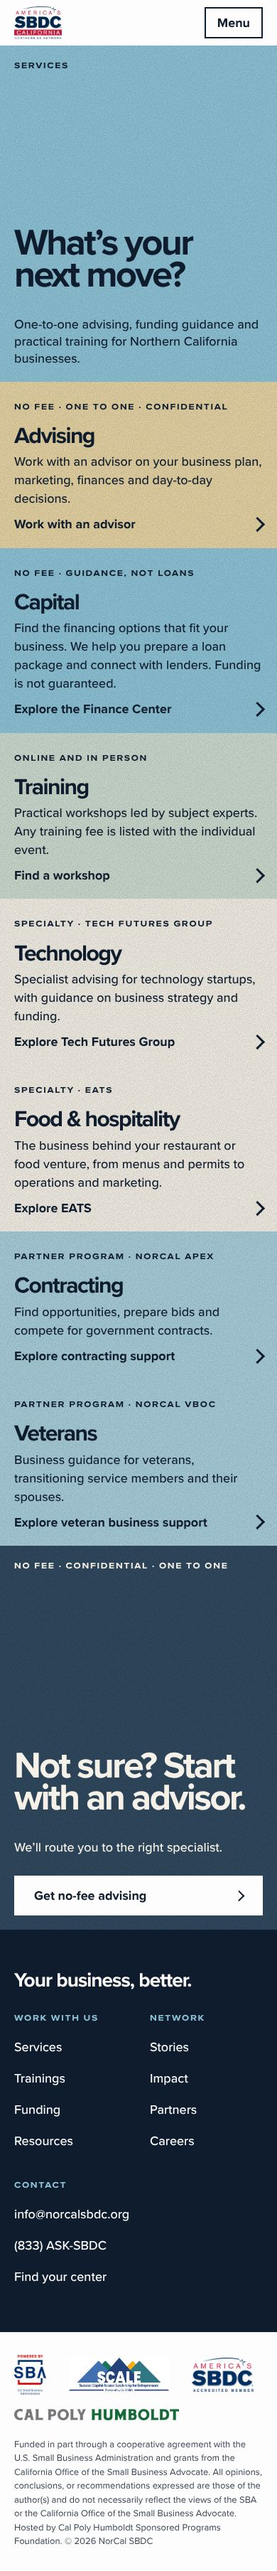
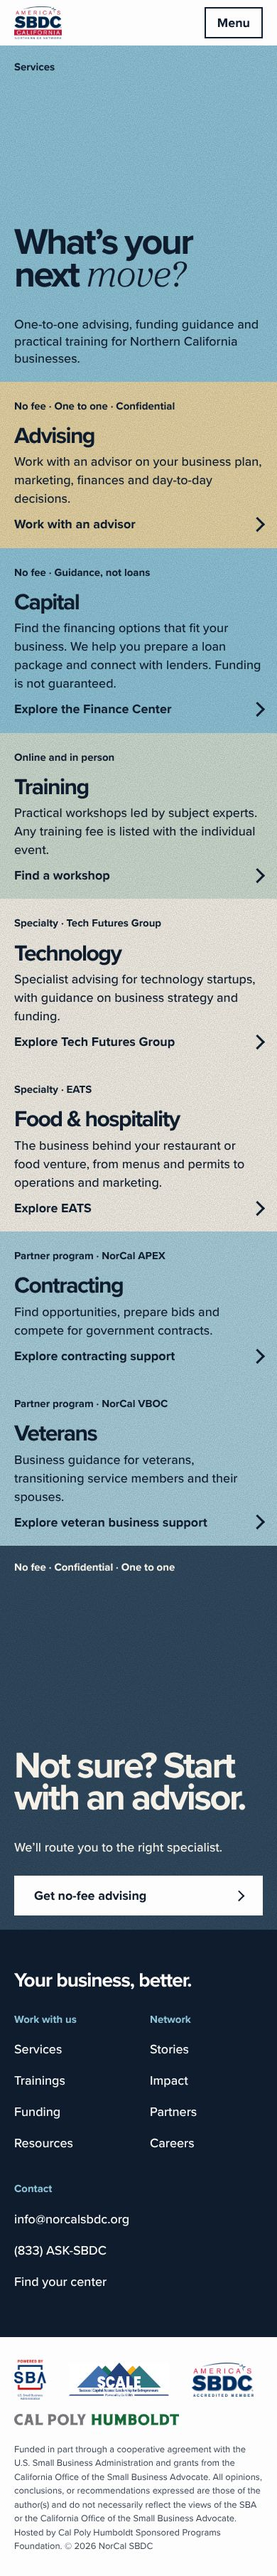
Use plain Proxima Nova labels and add occasional Sera italic words
Claude-Session: https://claude.ai/code/session_01BDtJSaFQQUEiRgwqXU1sgG

diff --git a/design-directions/line/home.html b/design-directions/line/home.html
@@ -15,7 +15,7 @@
 <div class="split" style="position:relative">
 <div class="panel tx c-navy dk"><span class="tex" aria-hidden="true"></span><svg class="map tex-map" viewBox="0 0 760 1043" aria-hidden="true" focusable="false"><path d="M327.3 831.4L334.0 829.6L341.3 835.2L348.6 847.7L354.8 850.1L369.4 851.3L376.6 858.5L374.4 861.8L383.4 867.3L445.6 847.7L445.6 903.1L454.0 906.4L459.0 915.4L459.0 915.2L396.8 915.1L387.8 921.0L384.5 918.2L369.4 919.9L366.0 913.5L359.3 910.2L353.7 895.1L349.7 876.2L338.0 866.8L336.8 858.8L325.1 854.5L324.5 853.9L329.6 841.4Z"/><path d="M677.6 707.5L677.6 668.5L694.4 653.7L707.9 634.8L703.4 621.9L753.3 666.4L748.8 675.9L748.2 688.4L760.0 709.6L757.2 727.5L747.7 731.0L749.9 736.5L744.9 744.5L735.3 736.7L735.9 727.7L727.5 726.3L719.6 729.4L706.8 738.6L685.5 723.0L677.6 720.2Z"/><path d="M528.5 707.9L542.0 703.7L544.2 706.5L557.1 698.3L569.4 698.7L590.7 708.8L606.4 707.5L630.0 700.4L640.1 700.2L652.4 690.2L655.8 683.4L667.5 680.4L669.8 669.7L677.6 668.5L677.6 707.5L664.7 710.7L657.4 709.4L645.1 714.5L628.8 717.3L623.8 714.8L617.1 720.2L610.9 720.0L606.4 725.1L593.0 731.7L590.2 740.7L562.7 752.5L548.7 765.9L533.0 765.0L528.5 749.9Z"/><path d="M464.1 375.7L469.7 375.7L469.1 382.9L475.3 388.8L466.9 403.1L468.6 414.7L468.0 432.3L476.4 435.6L477.5 441.5L488.2 450.5L499.9 466.8L506.1 469.8L511.2 481.4L520.7 487.7L515.6 493.7L508.9 496.2L507.8 503.5L494.9 501.9L494.9 504.7L484.8 503.5L483.7 512.2L479.8 515.3L480.3 522.4L474.2 534.7L469.1 539.8L458.5 541.0L456.8 544.3L444.5 546.7L437.2 543.9L434.9 548.6L434.4 546.7L390.6 547.1L393.5 530.9L396.8 517.5L395.7 505.4L399.1 499.8L377.2 500.5L376.1 495.7L378.3 478.3L377.2 472.7L385.6 467.3L382.8 459.5L378.9 459.7L369.4 447.2L365.4 438.5L369.4 429.8L406.9 429.7L415.3 425.1L415.9 418.7L422.6 409.5L431.6 409.9L433.2 401.0L439.4 394.6L441.1 385.9L452.9 385.9L461.8 381.6Z"/><path d="M677.6 707.5L677.6 720.2L685.5 723.0L664.7 732.2L656.3 744.5L648.5 752.9L635.6 775.4L617.6 802.2L616.0 807.9L608.1 809.8L604.2 815.7L608.1 818.5L604.7 825.6L590.2 838.7L586.8 844.6L544.2 794.9L542.0 792.8L533.0 765.0L548.7 765.9L562.7 752.5L590.2 740.7L593.0 731.7L606.4 725.1L610.9 720.0L617.1 720.2L623.8 714.8L628.8 717.3L645.1 714.5L657.4 709.4L664.7 710.7Z"/><path d="M261.2 530.9L355.3 530.6L355.3 524.7L375.0 524.8L375.0 530.9L393.5 530.9L390.6 547.1L384.5 559.9L387.8 568.3L385.0 572.1L394.0 593.8L400.2 594.1L404.1 601.9L404.7 610.8L401.9 623.7L323.4 623.8L312.7 616.0L311.6 604.4L299.3 597.4L298.2 583.9L302.1 573.3L295.9 566.2L287.0 567.2L270.1 560.3L258.4 550.9L255.6 545.5Z"/><path d="M334.6 798.5L347.5 799.8L354.2 804.3L367.1 798.0L378.9 797.0L387.8 801.1L397.9 797.3L402.4 804.3L409.1 806.9L417.6 805.1L426.0 798.2L429.3 791.2L442.2 791.6L441.1 803.4L445.6 807.2L441.7 813.8L445.6 824.2L442.2 838.7L448.9 840.9L445.6 847.7L383.4 867.3L374.4 861.8L376.6 858.5L369.4 851.3L354.8 850.1L348.6 847.7L341.3 835.2L334.0 829.6L327.3 831.4L317.2 829.8L309.4 818.0L313.9 819.6L318.9 815.0L318.9 808.1L329.6 808.4Z"/><path d="M30.8 2.3L91.9 2.8L139.6 1.7L132.3 21.2L126.1 25.5L119.9 24.7L118.8 30.0L110.4 37.3L114.9 43.1L114.3 53.3L117.1 57.3L113.2 73.8L108.2 83.9L113.8 84.4L112.1 91.4L118.3 95.2L124.4 113.9L117.1 127.0L99.8 127.1L99.8 110.3L53.8 110.1L51.6 93.4L43.2 71.2L38.7 54.5L33.6 55.2L24.1 45.8L29.7 33.0L32.5 13.9Z"/><path d="M688.3 594.8L688.8 608.5L703.4 621.9L707.9 634.8L694.4 653.7L677.6 668.5L669.8 669.7L667.5 680.4L655.8 683.4L652.4 690.2L640.1 700.2L630.0 700.4L606.4 707.5L590.7 708.8L569.4 698.7L557.1 698.3L544.2 706.5L542.0 703.7L528.5 707.9L514.0 665.7L510.6 666.7L516.8 651.8L516.8 645.7L522.9 639.6L526.3 625.6L542.0 621.4L542.0 616.0L554.9 618.1L562.2 608.4L575.0 607.7L588.5 619.7L599.1 625.7L608.7 622.4L615.4 615.5L621.0 602.6L651.3 603.7L660.2 602.1L666.4 594.8Z"/><path d="M229.8 447.0L369.4 447.2L378.9 459.7L382.8 459.5L385.6 467.3L377.2 472.7L378.3 478.3L376.1 495.7L377.2 500.5L399.1 499.8L395.7 505.4L396.8 517.5L393.5 530.9L375.0 530.9L375.0 524.8L355.3 524.7L355.3 530.6L261.2 530.9L262.3 517.4L261.7 491.0L238.2 491.1L237.1 465.1L233.7 457.3L229.8 457.3Z"/><path d="M53.8 110.1L99.8 110.3L99.8 127.1L117.1 127.0L141.8 126.8L146.3 130.1L151.9 158.2L156.4 167.8L153.0 173.8L149.1 190.2L153.6 191.7L156.4 200.2L150.2 210.8L150.2 215.7L142.9 221.1L132.3 214.5L123.3 218.8L130.6 233.1L135.6 257.9L135.1 405.9L60.5 406.0L51.6 400.3L51.6 392.8L47.1 385.4L34.7 379.8L7.3 353.6L9.5 342.7L7.3 330.5L0.0 317.6L5.0 300.6L12.9 281.7L36.4 235.7L42.6 219.2L46.5 198.5L39.8 192.1L39.2 175.2L41.5 174.9L47.6 157.7L52.7 128.3Z"/><path d="M238.2 491.1L261.7 491.0L262.3 517.4L261.2 530.9L255.6 545.5L258.4 550.9L270.1 560.3L287.0 567.2L295.9 566.2L302.1 573.3L298.2 583.9L299.3 597.4L311.6 604.4L312.7 616.0L323.4 623.8L313.3 623.5L310.5 627.8L315.0 635.8L318.3 645.4L314.4 648.1L303.8 668.1L278.6 675.6L275.2 667.8L268.5 666.9L259.5 648.0L248.3 638.8L236.5 632.5L237.1 629.6L228.1 628.7L224.7 622.1L222.5 609.1L215.8 609.1L211.3 604.2L210.2 595.3L205.7 594.0L207.9 573.3L213.0 573.3L220.8 560.8L217.5 552.3L217.5 543.4L214.1 540.5L208.5 526.0L210.2 506.6L216.3 503.6L230.4 504.0L237.6 501.6Z"/><path d="M480.9 166.9L688.8 166.9L689.4 391.8L688.3 462.3L686.0 465.1L665.8 465.4L672.0 447.9L672.0 418.5L663.0 412.6L657.4 403.6L655.8 388.8L650.1 384.5L635.6 382.9L624.9 376.5L617.6 364.7L613.2 364.7L609.2 356.0L598.6 352.9L598.6 348.6L591.3 348.6L586.8 344.0L569.4 342.5L564.4 350.1L552.6 357.4L552.6 365.9L543.7 367.5L540.9 361.6L531.9 361.6L522.9 354.5L522.9 316.1L481.4 316.3L482.6 223.2L480.9 223.2Z"/><path d="M219.7 750.8L225.3 746.6L234.3 745.7L260.6 768.8L275.2 774.1L287.5 772.8L299.9 788.5L301.0 796.1L298.2 804.1L306.6 813.0L299.9 817.3L297.6 824.9L308.3 834.7L304.3 837.1L298.2 832.1L302.1 844.4L293.7 847.2L288.6 840.6L274.1 830.0L266.8 832.1L253.9 820.4L248.3 811.2L238.8 805.5L229.8 804.1L218.6 809.8L226.4 787.8L228.1 779.4L221.4 763.5L225.3 760.0Z"/><path d="M60.5 406.0L135.1 405.9L135.1 410.9L230.4 410.7L232.6 423.1L228.1 425.0L226.4 437.7L229.8 447.0L229.8 457.3L233.7 457.3L237.1 465.1L238.2 491.1L237.6 501.6L230.4 504.0L216.3 503.6L210.2 506.6L208.5 526.0L214.1 540.5L217.5 543.4L217.5 552.3L220.8 560.8L213.0 573.3L207.9 573.3L205.7 594.0L210.2 595.3L211.3 604.2L215.8 609.1L222.5 609.1L224.7 622.1L228.1 628.7L237.1 629.6L236.5 632.5L248.3 638.8L207.4 638.2L199.0 640.8L199.0 647.1L162.5 647.6L162.5 653.5L142.4 653.2L136.8 655.3L118.3 637.9L104.8 617.7L112.7 604.2L112.1 596.9L95.3 553.7L91.4 535.4L93.0 518.2L100.3 495.3L97.5 486.3L97.5 475.0L89.7 459.0L87.4 440.3L78.5 434.0L75.1 424.5Z"/><path d="M462.9 2.6L551.5 3.1L688.8 3.0L688.8 3.1L688.8 166.9L480.9 166.9L462.9 167.1L461.3 12.2Z"/><path d="M278.6 675.6L303.8 668.1L314.4 648.1L318.3 645.4L315.0 635.8L321.7 641.7L331.2 640.8L341.3 669.2L350.3 678.2L356.5 692.6L360.4 706.8L356.5 723.9L362.6 732.9L366.5 746.8L344.1 746.8L346.9 755.6L342.4 757.6L346.4 767.5L343.0 774.2L345.8 779.3L312.7 779.1L318.3 778.7L321.7 771.4L318.9 760.7L313.3 753.7L315.0 749.0L304.9 736.4L306.6 733.9L298.7 724.9L301.0 719.2L293.7 715.7L291.4 705.5L279.7 697.3L275.8 689.6Z"/><path d="M529.1 529.3L533.0 525.0L551.5 521.5L551.5 521.5L551.5 521.5L554.9 520.7L554.9 520.7L554.9 520.7L563.8 520.0L572.8 515.1L582.9 503.6L596.9 502.6L601.9 504.5L605.3 514.8L610.4 518.2L688.3 518.4L687.7 544.5L587.9 544.8L575.0 550.2L563.3 561.3L554.9 566.7L553.2 571.9L547.0 574.0L535.8 586.1L534.1 592.9L526.3 605.6L516.2 606.1L511.2 600.7L503.3 605.8L488.7 601.4L488.7 561.8L491.0 553.3L498.3 551.4L500.5 544.5L512.8 531.6L519.6 528.7Z"/><path d="M468.0 609.2L475.3 601.9L484.8 597.8L488.7 601.4L503.3 605.8L511.2 600.7L516.2 606.1L526.3 605.6L534.1 592.9L535.8 586.1L547.0 574.0L553.2 571.9L554.9 566.7L563.3 561.3L575.0 550.2L587.9 544.8L687.7 544.5L688.3 575.0L688.3 585.6L688.3 594.8L666.4 594.8L660.2 602.1L651.3 603.7L621.0 602.6L615.4 615.5L608.7 622.4L599.1 625.7L588.5 619.7L575.0 607.7L562.2 608.4L554.9 618.1L542.0 616.0L542.0 621.4L526.3 625.6L522.9 639.6L516.8 645.7L516.8 651.8L510.6 666.7L456.8 662.0L459.0 658.6L459.0 623.5L468.0 623.3Z"/><path d="M455.1 316.3L481.4 316.3L522.9 316.1L522.9 354.5L531.9 361.6L540.9 361.6L543.7 367.5L552.6 365.9L552.6 357.4L564.4 350.1L569.4 342.5L586.8 344.0L591.3 348.6L598.6 348.6L598.6 352.9L609.2 356.0L613.2 364.7L617.6 364.7L624.9 376.5L635.6 382.9L650.1 384.5L655.8 388.8L657.4 403.6L663.0 412.6L672.0 418.5L672.0 447.9L665.8 465.4L589.1 465.6L582.3 471.3L571.1 463.0L565.5 464.9L561.6 458.1L552.6 451.5L543.1 458.7L540.3 472.7L531.3 479.2L520.7 487.7L511.2 481.4L506.1 469.8L499.9 466.8L488.2 450.5L477.5 441.5L476.4 435.6L468.0 432.3L468.6 414.7L466.9 403.1L475.3 388.8L469.1 382.9L469.7 375.7L464.1 375.7L464.1 366.8L469.1 367.7L475.3 363.3L478.1 350.5L473.6 346.0L479.2 343.7L473.0 337.4L459.0 335.2Z"/><path d="M440.0 747.3L441.7 743.5L451.2 737.8L449.5 723.9L454.0 721.4L453.4 715.7L447.8 714.1L446.1 706.7L450.6 705.6L452.9 689.1L446.1 688.6L444.5 680.8L440.0 680.4L433.8 671.9L438.3 661.9L456.8 662.0L510.6 666.7L514.0 665.7L528.5 707.9L528.5 749.9L522.4 750.1L505.5 758.9L497.7 761.2L490.4 759.6L478.6 764.5L468.6 763.8L465.8 759.1L457.3 759.3L450.1 771.4L448.9 780.0L441.1 786.4L442.2 791.6L429.3 791.2L426.0 798.2L417.6 805.1L409.1 806.9L402.4 804.3L397.9 797.3L408.0 798.4L416.4 793.0L421.5 793.3L425.4 778.4L436.6 771.1Z"/><path d="M315.5 869.6L298.2 869.6L295.9 855.0L303.8 850.1L312.7 848.7L316.1 852.9L320.0 868.2Z"/><path d="M442.2 791.6L441.1 786.4L448.9 780.0L450.1 771.4L457.3 759.3L465.8 759.1L468.6 763.8L478.6 764.5L490.4 759.6L497.7 761.2L505.5 758.9L522.4 750.1L528.5 749.9L533.0 765.0L542.0 792.8L544.2 794.9L544.8 863.7L533.0 859.2L528.0 863.0L523.5 861.1L510.0 867.7L494.9 878.6L459.0 915.4L454.0 906.4L445.6 903.1L445.6 847.7L448.9 840.9L442.2 838.7L445.6 824.2L441.7 813.8L445.6 807.2L441.1 803.4Z"/><path d="M298.2 869.6L315.5 869.6L321.2 888.3L320.0 893.0L335.2 897.0L350.3 910.9L354.8 910.0L359.3 918.5L350.9 921.2L346.9 925.5L344.7 939.9L349.2 946.9L346.4 948.4L352.5 955.0L352.5 969.3L338.5 969.3L338.5 974.3L326.8 975.0L330.7 991.1L324.0 989.1L322.8 983.7L313.3 973.3L311.1 962.5L313.9 940.1L307.1 924.6L306.0 915.6L299.3 913.2L295.9 907.4L295.4 896.3L299.3 882.6Z"/><path d="M359.3 918.5L369.4 919.9L384.5 918.2L387.8 921.0L396.8 915.1L459.0 915.2L459.0 927.2L461.3 932.8L468.6 935.6L466.3 940.3L469.1 950.0L460.7 955.5L461.3 962.3L467.4 970.1L471.4 982.8L477.0 975.5L481.4 979.2L488.7 975.7L497.1 985.6L494.3 994.6L499.9 999.0L494.3 1007.6L494.3 1016.1L498.8 1020.7L467.4 1020.7L461.8 1015.1L456.2 1016.1L445.0 1033.5L441.7 1033.2L441.7 1029.2L431.6 1026.4L414.2 1002.8L397.9 991.7L393.5 991.5L377.8 983.7L371.6 974.3L362.6 967.7L352.5 955.0L346.4 948.4L349.2 946.9L344.7 939.9L346.9 925.5L350.9 921.2Z"/><path d="M352.5 955.0L362.6 967.7L371.6 974.3L377.8 983.7L393.5 991.5L397.9 991.7L414.2 1002.8L431.6 1026.4L441.7 1029.2L441.7 1033.2L434.4 1030.6L432.1 1034.2L423.2 1029.0L409.7 1035.9L405.8 1042.9L397.9 1026.6L391.2 1019.1L385.6 1017.2L380.6 1022.1L359.8 1021.7L344.1 1009.9L330.7 991.1L326.8 975.0L338.5 974.3L338.5 969.3L352.5 969.3Z"/><path d="M298.7 167.2L462.9 167.1L480.9 166.9L480.9 223.2L482.6 223.2L481.4 316.3L455.1 316.3L431.6 318.3L425.4 314.7L418.1 318.0L399.6 316.8L385.6 322.3L375.0 320.1L362.1 322.9L362.1 322.9L362.1 322.9L355.3 325.8L322.3 331.2L304.3 330.3L294.8 327.4L274.1 339.9L258.9 332.6L242.7 336.9L239.9 335.9L233.2 344.2L230.4 343.2L230.4 343.2L230.4 343.2L222.5 343.2L222.5 343.2L222.5 343.2L210.2 348.2L209.6 338.5L216.9 331.9L221.4 321.6L236.0 315.9L244.9 303.9L251.7 302.7L256.7 294.0L267.3 290.7L265.7 279.4L258.9 267.5L266.2 259.8L264.0 256.3L273.5 247.5L272.4 239.1L281.9 226.3L282.5 209.8L294.2 199.9L296.5 186.5L304.3 184.4L306.6 171.9Z"/><path d="M531.3 479.2L540.3 472.7L543.1 458.7L552.6 451.5L561.6 458.1L565.5 464.9L571.1 463.0L582.3 471.3L589.1 465.6L665.8 465.4L686.0 465.1L688.3 462.3L688.3 518.4L610.4 518.2L605.3 514.8L601.9 504.5L596.9 502.6L582.9 503.6L572.8 515.1L563.8 520.0L554.9 520.7L554.9 520.7L554.9 520.7L551.5 521.5L551.5 521.5L551.5 521.5L533.0 525.0L529.1 529.3L527.4 504.5L523.5 499.8L528.5 495.5Z"/><path d="M139.6 1.7L184.4 1.2L197.3 0.0L213.0 1.4L331.2 0.3L462.9 2.6L461.3 12.2L462.9 167.1L298.7 167.2L295.9 162.7L296.5 148.0L300.4 138.6L290.3 130.9L284.7 136.7L275.2 139.8L272.9 145.2L263.4 151.1L251.7 162.0L237.1 163.1L227.6 173.5L225.3 186.5L232.6 190.9L236.0 198.9L230.4 205.6L224.7 201.6L215.2 203.2L212.4 196.1L200.6 188.6L182.2 188.4L173.7 175.6L156.4 167.8L151.9 158.2L146.3 130.1L141.8 126.8L117.1 127.0L124.4 113.9L118.3 95.2L112.1 91.4L113.8 84.4L108.2 83.9L113.2 73.8L117.1 57.3L114.3 53.3L114.9 43.1L110.4 37.3L118.8 30.0L119.9 24.7L126.1 25.5L132.3 21.2Z"/><path d="M312.7 779.1L345.8 779.3L343.0 774.2L346.4 767.5L342.4 757.6L346.9 755.6L344.1 746.8L366.5 746.8L362.6 732.9L356.5 723.9L360.4 706.8L367.7 706.0L374.4 711.9L385.6 702.8L398.5 701.8L409.7 704.9L417.0 702.0L424.3 704.1L424.3 747.0L440.0 747.3L436.6 771.1L425.4 778.4L421.5 793.3L416.4 793.0L408.0 798.4L397.9 797.3L387.8 801.1L378.9 797.0L367.1 798.0L354.2 804.3L347.5 799.8L334.6 798.5L329.6 789.3L314.4 781.9Z"/><path d="M136.8 655.3L142.4 653.2L162.5 653.5L162.5 647.6L199.0 647.1L199.0 640.8L207.4 638.2L248.3 638.8L259.5 648.0L268.5 666.9L275.2 667.8L278.6 675.6L275.8 689.6L279.7 697.3L291.4 705.5L293.7 715.7L301.0 719.2L298.7 724.9L306.6 733.9L304.9 736.4L315.0 749.0L313.3 753.7L318.9 760.7L321.7 771.4L318.3 778.7L312.7 779.1L314.4 781.9L307.7 786.9L299.9 788.5L287.5 772.8L275.2 774.1L260.6 768.8L234.3 745.7L225.3 746.6L219.7 750.8L210.2 749.6L209.6 737.9L200.1 719.5L188.9 710.7L181.0 707.4L168.7 696.2L148.0 665.7Z"/><path d="M390.6 547.1L434.4 546.7L434.9 548.6L433.2 555.6L436.6 562.2L436.0 571.6L441.1 590.3L437.2 596.7L442.8 624.9L447.8 614.1L456.2 610.1L468.0 609.2L468.0 623.3L459.0 623.5L459.0 658.6L456.8 662.0L438.3 661.9L440.0 656.3L425.4 656.3L419.8 648.1L419.8 638.6L415.3 634.4L410.3 637.4L405.2 633.4L406.9 625.6L401.9 623.7L404.7 610.8L404.1 601.9L400.2 594.1L394.0 593.8L385.0 572.1L387.8 568.3L384.5 559.9Z"/><path d="M222.5 343.2L222.5 343.2L222.5 343.2L230.4 343.2L230.4 343.2L230.4 343.2L233.2 344.2L239.9 335.9L242.7 336.9L258.9 332.6L274.1 339.9L294.8 327.4L304.3 330.3L322.3 331.2L355.3 325.8L362.1 322.9L362.1 322.9L362.1 322.9L375.0 320.1L385.6 322.3L399.6 316.8L418.1 318.0L425.4 314.7L431.6 318.3L455.1 316.3L459.0 335.2L473.0 337.4L479.2 343.7L473.6 346.0L478.1 350.5L475.3 363.3L469.1 367.7L464.1 366.8L464.1 375.7L461.8 381.6L452.9 385.9L441.1 385.9L439.4 394.6L433.2 401.0L431.6 409.9L422.6 409.5L415.9 418.7L415.3 425.1L406.9 429.7L369.4 429.8L365.4 438.5L369.4 447.2L229.8 447.0L226.4 437.7L228.1 425.0L232.6 423.1L230.4 410.7L227.6 406.6L226.4 386.1L221.9 376.9L224.7 368.5L223.6 357.4L212.4 352.0L210.2 348.2Z"/><path d="M156.4 167.8L173.7 175.6L182.2 188.4L200.6 188.6L212.4 196.1L215.2 203.2L224.7 201.6L230.4 205.6L236.0 198.9L232.6 190.9L225.3 186.5L227.6 173.5L237.1 163.1L251.7 162.0L263.4 151.1L272.9 145.2L275.2 139.8L284.7 136.7L290.3 130.9L300.4 138.6L296.5 148.0L295.9 162.7L298.7 167.2L306.6 171.9L304.3 184.4L296.5 186.5L294.2 199.9L282.5 209.8L281.9 226.3L272.4 239.1L273.5 247.5L264.0 256.3L266.2 259.8L258.9 267.5L265.7 279.4L267.3 290.7L256.7 294.0L251.7 302.7L244.9 303.9L236.0 315.9L221.4 321.6L216.9 331.9L209.6 338.5L210.2 348.2L212.4 352.0L223.6 357.4L224.7 368.5L221.9 376.9L226.4 386.1L227.6 406.6L230.4 410.7L135.1 410.9L135.1 405.9L135.6 257.9L130.6 233.1L123.3 218.8L132.3 214.5L142.9 221.1L150.2 215.7L150.2 210.8L156.4 200.2L153.6 191.7L149.1 190.2L153.0 173.8Z"/><path d="M323.4 623.8L401.9 623.7L406.9 625.6L405.2 633.4L410.3 637.4L415.3 634.4L419.8 638.6L419.8 648.1L425.4 656.3L440.0 656.3L438.3 661.9L433.8 671.9L440.0 680.4L444.5 680.8L446.1 688.6L452.9 689.1L450.6 705.6L446.1 706.7L447.8 714.1L453.4 715.7L454.0 721.4L449.5 723.9L451.2 737.8L441.7 743.5L440.0 747.3L424.3 747.0L424.3 704.1L417.0 702.0L409.7 704.9L398.5 701.8L385.6 702.8L374.4 711.9L367.7 706.0L360.4 706.8L356.5 692.6L350.3 678.2L341.3 669.2L331.2 640.8L321.7 641.7L315.0 635.8L310.5 627.8L313.3 623.5Z"/><path d="M434.9 548.6L437.2 543.9L444.5 546.7L456.8 544.3L458.5 541.0L469.1 539.8L474.2 534.7L480.3 522.4L479.8 515.3L483.7 512.2L484.8 503.5L494.9 504.7L494.9 501.9L507.8 503.5L508.9 496.2L515.6 493.7L520.7 487.7L531.3 479.2L528.5 495.5L523.5 499.8L527.4 504.5L529.1 529.3L519.6 528.7L512.8 531.6L500.5 544.5L498.3 551.4L491.0 553.3L488.7 561.8L488.7 601.4L484.8 597.8L475.3 601.9L468.0 609.2L456.2 610.1L447.8 614.1L442.8 624.9L437.2 596.7L441.1 590.3L436.0 571.6L436.6 562.2L433.2 555.6Z"/></svg>
 <a class="brand" href="home.html"><img src="../shared/photos/logo-white.png" alt="America’s SBDC Northern California, home" width="82" height="56"></a>
-<div><p class="label">NorCal SBDC · 36 counties · No fee</p><h1 class="mega" style="margin-top:20px">Your business, better.</h1><p class="lead">No-fee advising, capital expertise and local connections for the business you’re building.</p>
+<div><p class="label">NorCal SBDC · 36 counties · No fee</p><h1 class="mega" style="margin-top:20px">Your business, <em>better.</em></h1><p class="lead">No-fee advising, capital expertise and local connections for the business you’re building.</p>
 <div class="panel__foot"><a class="btn" href="#">Get no-fee advising <span class="arr" aria-hidden="true"></span></a><a class="link" href="#">Sign in to MySBDC</a></div></div>
 </div>
 <div class="flow">
@@ -49,7 +49,7 @@
 <div><p class="label">Capital</p><h3>Loan readiness: what lenders actually look for</h3></div>
 <p class="row__m">10:00–11:30 AM<br>Online · 90 min · Free</p>
 <a class="reg" href="#">Register<span class="vh"> for Loan readiness: what lenders actually look for</span><span class="arr" aria-hidden="true"></span></a></li></ul><a class="link" href="trainings.html" style="margin-top:16px">See all trainings</a></section>
-<div class="endcap c-cream"><p>Good things start here.</p><a class="btn btn--ink" href="#">Get no-fee advising <span class="arr" aria-hidden="true"></span></a></div>
+<div class="endcap c-cream"><p>Good things start <em>here.</em></p><a class="btn btn--ink" href="#">Get no-fee advising <span class="arr" aria-hidden="true"></span></a></div>
 </main></div>
 </div>
 <footer>

diff --git a/design-directions/line/services.html b/design-directions/line/services.html
@@ -15,7 +15,7 @@
 <div class="split" style="position:relative">
 <div class="panel tx c-pool"><span class="tex" aria-hidden="true"></span>
 <a class="brand" href="home.html"><img src="../shared/photos/logo.png" alt="America’s SBDC Northern California, home" width="82" height="56"></a>
-<div><p class="label">Services</p><h1 class="mega" style="margin-top:20px">What’s your next move?</h1><p class="lead">One-to-one advising, funding guidance and practical training for Northern California businesses.</p>
+<div><p class="label">Services</p><h1 class="mega" style="margin-top:20px">What’s your next <em>move?</em></h1><p class="lead">One-to-one advising, funding guidance and practical training for Northern California businesses.</p>
 <div class="panel__foot"><a class="btn btn--ink" href="#">Work with an advisor <span class="arr" aria-hidden="true"></span></a></div></div>
 </div>
 <div class="flow">
@@ -30,7 +30,7 @@
 </header>
 <main id="main">
 <section class="sec" aria-label="All services"><ul class="list list--sm"><li><a href="#"><span><span class="label">No fee · One to one · Confidential</span><span class="list__t">Advising</span></span><p>Work with an advisor on your business plan, marketing, finances and day-to-day decisions.</p><span class="arr" aria-hidden="true"></span></a></li><li><a href="#"><span><span class="label">No fee · Guidance, not loans</span><span class="list__t">Capital</span></span><p>Find the financing options that fit your business. We help you prepare a loan package and connect with lenders. Funding is not guaranteed.</p><span class="arr" aria-hidden="true"></span></a></li><li><a href="#"><span><span class="label">Online and in person</span><span class="list__t">Training</span></span><p>Practical workshops led by subject experts. Any training fee is listed with the individual event.</p><span class="arr" aria-hidden="true"></span></a></li><li><a href="#"><span><span class="label">Specialty · Tech Futures Group</span><span class="list__t">Technology</span></span><p>Specialist advising for technology startups, with guidance on business strategy and funding.</p><span class="arr" aria-hidden="true"></span></a></li><li><a href="#"><span><span class="label">Specialty · EATS</span><span class="list__t">Food &amp; hospitality</span></span><p>The business behind your restaurant or food venture, from menus and permits to operations and marketing.</p><span class="arr" aria-hidden="true"></span></a></li><li><a href="#"><span><span class="label">Partner program · NorCal APEX</span><span class="list__t">Contracting</span></span><p>Find opportunities, prepare bids and compete for government contracts.</p><span class="arr" aria-hidden="true"></span></a></li><li><a href="#"><span><span class="label">Partner program · NorCal VBOC</span><span class="list__t">Veterans</span></span><p>Business guidance for veterans, transitioning service members and their spouses.</p><span class="arr" aria-hidden="true"></span></a></li></ul></section>
-<div class="endcap c-cream"><p>Good things start here.</p><a class="btn btn--ink" href="#">Get no-fee advising <span class="arr" aria-hidden="true"></span></a></div>
+<div class="endcap c-cream"><p>Good things start <em>here.</em></p><a class="btn btn--ink" href="#">Get no-fee advising <span class="arr" aria-hidden="true"></span></a></div>
 </main></div>
 </div>
 <footer>

diff --git a/design-directions/dot/services.html b/design-directions/dot/services.html
@@ -24,7 +24,7 @@
 <main id="main">
 <section class="tx hero" style="background:var(--pool);--dot:var(--navy)"><span class="tex" style="opacity:.2" aria-hidden="true"></span>
 <div class="shell hero__in" style="min-height:min(60vh,560px)"><p class="label">Services</p>
-<div><h1 class="mega">What’s your next move?</h1>
+<div><h1 class="mega">What’s your next <em>move?</em></h1>
 <div class="hero__foot"><p class="lead">One-to-one advising, funding guidance and practical training for Northern California businesses.</p></div></div></div></section>
 <div style="padding-block:clamp(40px,5vw,80px)"><ul class="big big--sm"><li><a href="#" style="--c:var(--sand)"><span class="shell big__in"><span><span class="label">No fee · One to one · Confidential</span><span class="big__w">Advising</span></span><p>Work with an advisor on your business plan, marketing, finances and day-to-day decisions.</p><span class="arr" aria-hidden="true"></span></span></a></li><li><a href="#" style="--c:var(--pool)"><span class="shell big__in"><span><span class="label">No fee · Guidance, not loans</span><span class="big__w">Capital</span></span><p>Find the financing options that fit your business. We help you prepare a loan package and connect with lenders. Funding is not guaranteed.</p><span class="arr" aria-hidden="true"></span></span></a></li><li><a href="#" style="--c:var(--sage)"><span class="shell big__in"><span><span class="label">Online and in person</span><span class="big__w">Training</span></span><p>Practical workshops led by subject experts. Any training fee is listed with the individual event.</p><span class="arr" aria-hidden="true"></span></span></a></li><li><a href="#" style="--c:var(--cream)"><span class="shell big__in"><span><span class="label">Specialty · Tech Futures Group</span><span class="big__w">Technology</span></span><p>Specialist advising for technology startups, with guidance on business strategy and funding.</p><span class="arr" aria-hidden="true"></span></span></a></li><li><a href="#" style="--c:var(--cream)"><span class="shell big__in"><span><span class="label">Specialty · EATS</span><span class="big__w">Food &amp; hospitality</span></span><p>The business behind your restaurant or food venture, from menus and permits to operations and marketing.</p><span class="arr" aria-hidden="true"></span></span></a></li><li><a href="#" style="--c:var(--pool-soft)"><span class="shell big__in"><span><span class="label">Partner program · NorCal APEX</span><span class="big__w">Contracting</span></span><p>Find opportunities, prepare bids and compete for government contracts.</p><span class="arr" aria-hidden="true"></span></span></a></li><li><a href="#" style="--c:var(--pool-soft)"><span class="shell big__in"><span><span class="label">Partner program · NorCal VBOC</span><span class="big__w">Veterans</span></span><p>Business guidance for veterans, transitioning service members and their spouses.</p><span class="arr" aria-hidden="true"></span></span></a></li></ul></div>
 <section class="tx band c-sage" style="--dot:var(--navy)" aria-label="Get started"><span class="tex" style="opacity:.16" aria-hidden="true"></span>

diff --git a/design-directions/line/trainings.html b/design-directions/line/trainings.html
@@ -15,7 +15,7 @@
 <div class="split" style="position:relative">
 <div class="panel tx c-sand"><span class="tex" aria-hidden="true"></span>
 <a class="brand" href="home.html"><img src="../shared/photos/logo.png" alt="America’s SBDC Northern California, home" width="82" height="56"></a>
-<div><p class="label">Trainings · All times Pacific</p><h1 class="mega" style="margin-top:20px">Learn. Then put it to work.</h1><p class="lead">Practical workshops taught by advisors and practitioners. Register once, through MySBDC.</p>
+<div><p class="label">Trainings · All times Pacific</p><h1 class="mega" style="margin-top:20px">Learn. Then put it to <em>work.</em></h1><p class="lead">Practical workshops taught by advisors and practitioners. Register once, through MySBDC.</p>
 <div class="panel__foot"><a class="link" href="#">Watch a recorded webinar</a></div></div>
 </div>
 <div class="flow">
@@ -67,7 +67,7 @@
 <p class="row__m">10:00–11:30 AM<br>Online · 90 min · Free</p>
 <a class="reg" href="#">Register<span class="vh"> for Selling online: from farmers market to first web store</span><span class="arr" aria-hidden="true"></span></a></li></ul></section>
 <section class="sec" aria-labelledby="h-how"><h2 class="h2" id="h-how">Training is a start, not the whole plan.</h2><ol class="steps"><li><p class="row__d">1</p><div><h3>Pick what’s in front of you.</h3><p>Filter by topic and format. If you’re not sure, your advisor will point you.</p></div></li><li><p class="row__d">2</p><div><h3>Show up, or press play.</h3><p>Live sessions run about 90 minutes. Recorded webinars are there when the shop is quiet.</p></div></li><li><p class="row__d">3</p><div><h3>Put it to work with your advisor.</h3><p>Confidential, one to one, no fee. The training makes the conversation sharper.</p></div></li></ol></section>
-<div class="endcap c-cream"><p>Good things start here.</p><a class="btn btn--ink" href="#">Get no-fee advising <span class="arr" aria-hidden="true"></span></a></div>
+<div class="endcap c-cream"><p>Good things start <em>here.</em></p><a class="btn btn--ink" href="#">Get no-fee advising <span class="arr" aria-hidden="true"></span></a></div>
 </main></div>
 </div>
 <footer>

diff --git a/design-directions/dot/home.html b/design-directions/dot/home.html
@@ -25,7 +25,7 @@
 <section class="tx hero"><span class="tex" aria-hidden="true"></span>
 <div class="shell hero__in">
 <p class="label">NorCal SBDC · 36 counties · No fee</p>
-<div><h1 class="mega">Your business, better.</h1>
+<div><h1 class="mega">Your business, <em>better.</em></h1>
 <div class="hero__foot"><p class="lead">No-fee advising, capital expertise and local connections for the business you’re building.</p>
 <a class="link" href="#">Sign in to MySBDC</a><a class="btn" href="#">Get no-fee advising <span class="arr" aria-hidden="true"></span></a></div></div>
 </div></section>
@@ -57,7 +57,7 @@
 <a class="reg" href="#">Register<span class="vh"> for Loan readiness: what lenders actually look for</span><span class="arr" aria-hidden="true"></span></a></li></ul></div></section>
 <section class="tx band c-sand" style="--dot:var(--navy)" aria-label="Get started"><span class="tex" style="opacity:.16" aria-hidden="true"></span>
 <div class="shell close__in"><p class="label">No fee · Confidential · One to one</p>
-<h2 class="mega">Good things start here.</h2>
+<h2 class="mega">Good things start <em>here.</em></h2>
 <div class="hero__foot" style="margin-top:0"><p class="lead">Bring your questions. We’ll help you work through them.</p><a class="btn" href="#">Get no-fee advising <span class="arr" aria-hidden="true"></span></a></div></div>
 </section></main>
 <footer>

diff --git a/design-directions/shared/base.css b/design-directions/shared/base.css
@@ -4,7 +4,6 @@
   --navy:#0f1c2d;--slate-navy:#243b50;--slate:#384252;--cream:#f5f1e8;--paper:#fdfdfd;
   --pool:#8fc5d9;--pool-soft:#a9cfdd;--sand:#e8d5a5;--sage:#cddcd0;--berry:#a82f38;--cobalt:#174f91;
   --nova:"proxima-nova",Arial,Helvetica,sans-serif;
-  --wide:"proxima-nova-wide","proxima-nova",Arial,sans-serif;
   --sera:"proxima-sera",Georgia,serif;
   --pad:clamp(20px,3.4vw,48px);
   /* paper grain: one 220px SVG noise tile, reused everywhere */
@@ -30,8 +29,10 @@ button{font:inherit;color:inherit}
 .c-soft{background:var(--pool-soft)}.c-paper{background:var(--paper)}
 .c-slate{background:var(--slate-navy);color:var(--cream)}.c-navy{background:var(--navy);color:var(--paper)}
 
-/* micro label: Proxima Nova Wide, caps, tracked. The only small type on the site. */
-.label{font:700 .75rem/1.4 var(--wide);letter-spacing:.14em;text-transform:uppercase}
+/* label: plain Proxima Nova, sentence case. Quiet, never caps or tracked. */
+.label{font:600 .9375rem/1.35 var(--nova);letter-spacing:0}
+/* serif, from time to time: one italic Sera word inside a Nova headline */
+.mega em,.h2 em,.endcap em{font-family:var(--sera);font-style:italic;font-weight:300;letter-spacing:-.03em}
 
 /* texture helpers. Textures sit on fields, behind content, never between a reader and a paragraph. */
 .tx{position:relative;isolation:isolate}

diff --git a/design-directions/index.html b/design-directions/index.html
@@ -23,7 +23,7 @@ h1{font:700 clamp(2.5rem,7vw,6rem)/.88 var(--nova);letter-spacing:-.05em;margin:
 <main>
 <p class="label">MySBDC 2.0 · Public website · Round 2</p>
 <h1>Three directions.</h1>
-<p class="intro">All Proxima Nova. One texture and one layout idea each. Every page is shown as Home, Services and Trainings; resize the window for the phone layout.</p>
+<p class="intro">Proxima Nova, with a serif word now and then. One texture and one layout idea each. Every page is shown as Home, Services and Trainings; resize the window for the phone layout.</p>
 <div class="dirs">
 <section class="d tx grain c-sand"><p class="label">1 · Paper grain · Block wall</p><h2>Block</h2><p><a href="block/home.html">Home</a><a href="block/services.html">Services</a><a href="block/trainings.html">Trainings</a></p></section>
 <section class="d c-pool"><p class="label">2 · Halftone · One column</p><h2>Dot</h2><p><a href="dot/home.html">Home</a><a href="dot/services.html">Services</a><a href="dot/trainings.html">Trainings</a></p></section>

diff --git a/design-directions/block/services.html b/design-directions/block/services.html
@@ -23,7 +23,7 @@
 </header>
 <main id="main">
 <section class="b tx grain c-pool ph"><p class="label">Services</p>
-<div><h1 class="mega">What’s your next move?</h1>
+<div><h1 class="mega">What’s your next <em>move?</em></h1>
 <div class="hero__foot"><p class="lead">One-to-one advising, funding guidance and practical training for Northern California businesses.</p></div></div></section>
 <ul><li><a class="b tx grain c-sand band" href="#"><span><span class="label">No fee · One to one · Confidential</span><span class="row__name" style="display:block;margin-top:14px">Advising</span></span>
 <p>Work with an advisor on your business plan, marketing, finances and day-to-day decisions.</p><span class="go"><span>Work with an advisor</span><span class="arr" aria-hidden="true"></span></span></a></li><li><a class="b tx grain c-pool band" href="#"><span><span class="label">No fee · Guidance, not loans</span><span class="row__name" style="display:block;margin-top:14px">Capital</span></span>

diff --git a/design-directions/dot/trainings.html b/design-directions/dot/trainings.html
@@ -24,7 +24,7 @@
 <main id="main">
 <section class="tx hero" style="background:var(--sand);--dot:var(--navy)"><span class="tex" style="opacity:.18" aria-hidden="true"></span>
 <div class="shell hero__in" style="min-height:min(60vh,560px)"><p class="label">Trainings · All times Pacific</p>
-<div><h1 class="mega">Learn. Then put it to work.</h1>
+<div><h1 class="mega">Learn. Then put it to <em>work.</em></h1>
 <div class="hero__foot"><p class="lead">Practical workshops taught by advisors and practitioners. Register once, through MySBDC.</p></div></div></div></section>
 <section class="sec" aria-labelledby="h-cal"><div class="shell"><h2 class="vh" id="h-cal">Upcoming workshops</h2>
 <div class="filters">

diff --git a/design-directions/block/block.css b/design-directions/block/block.css
@@ -14,7 +14,6 @@
 /* the block */
 .b{display:flex;flex-direction:column;justify-content:space-between;gap:48px;padding:var(--pad);text-decoration:none;min-width:0}
 .mega{font:700 clamp(3.25rem,9.6vw,10rem)/.86 var(--nova);letter-spacing:-.05em;text-wrap:balance}
-.mega em{font:italic 300 1em/.86 var(--sera);letter-spacing:-.035em}
 .word{font:700 clamp(2.75rem,5.6vw,6rem)/.9 var(--nova);letter-spacing:-.05em}
 .h2{font:700 clamp(2rem,4.2vw,4rem)/.95 var(--nova);letter-spacing:-.045em;text-wrap:balance}
 .num{font:900 clamp(3rem,6.4vw,6.5rem)/.85 var(--nova);letter-spacing:-.055em}

diff --git a/design-directions/block/trainings.html b/design-directions/block/trainings.html
@@ -23,7 +23,7 @@
 </header>
 <main id="main">
 <section class="b tx grain c-sand ph"><p class="label">Trainings · All times Pacific</p>
-<div><h1 class="mega">Learn what matters. Put it to work.</h1>
+<div><h1 class="mega">Learn what matters. Put it to <em>work.</em></h1>
 <div class="hero__foot"><p class="lead">Practical workshops taught by advisors and practitioners. Register once, through MySBDC.</p></div></div></section>
 <section class="sec" aria-labelledby="h-cal"><h2 class="vh" id="h-cal">Upcoming workshops</h2>
 <div class="filters">

diff --git a/design-directions/block/home.html b/design-directions/block/home.html
@@ -64,7 +64,7 @@
 </section>
 <section class="b tx grain dk c-slate close" aria-label="Get started">
 <p class="label">No fee · Confidential · One to one</p>
-<div><h2 class="mega">Good things start here.</h2>
+<div><h2 class="mega">Good things start <em>here.</em></h2>
 <div class="hero__foot"><p class="lead">Bring your questions. We’ll help you work through them.</p><a class="btn" href="#">Get no-fee advising <span class="arr" aria-hidden="true"></span></a></div></div>
 </section></main>
 <footer>
